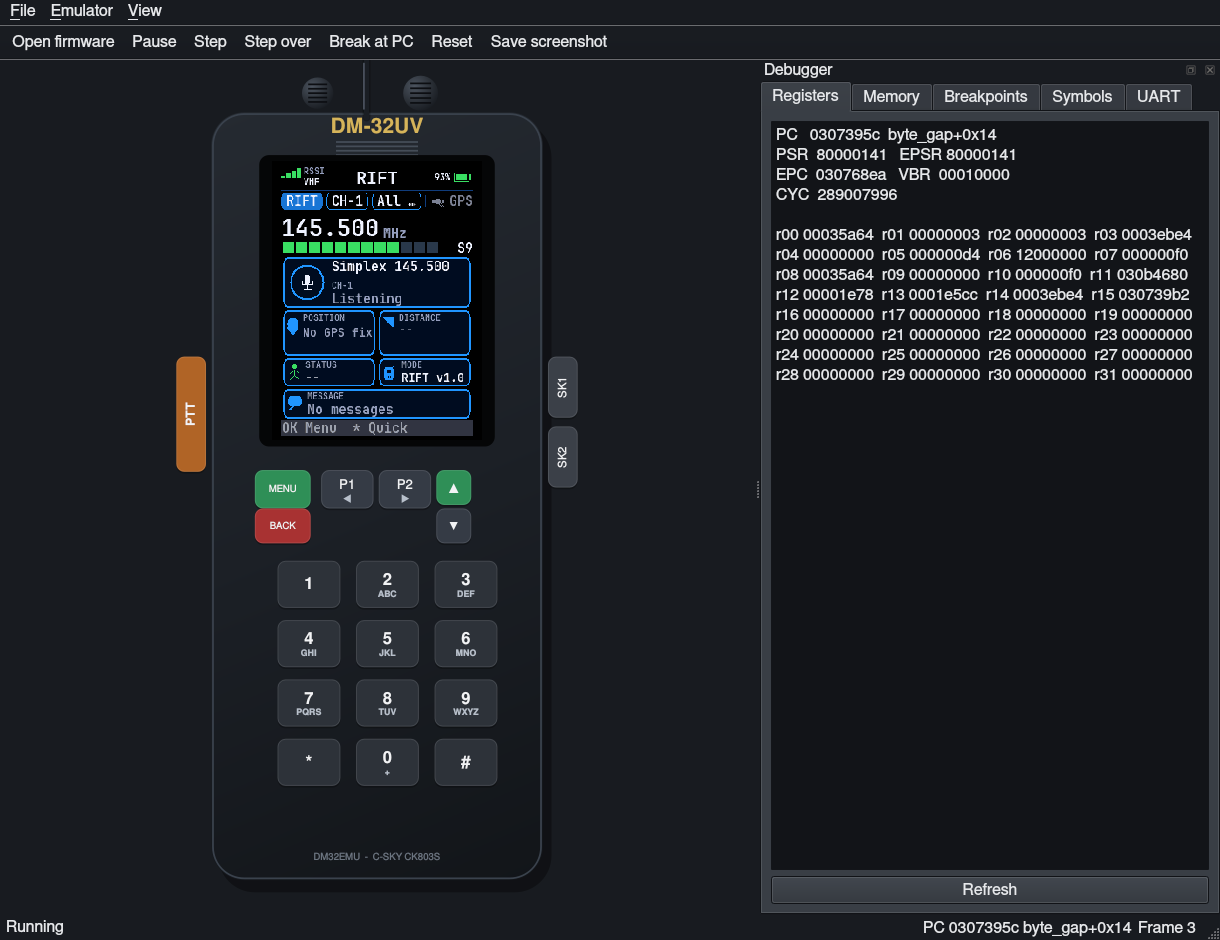
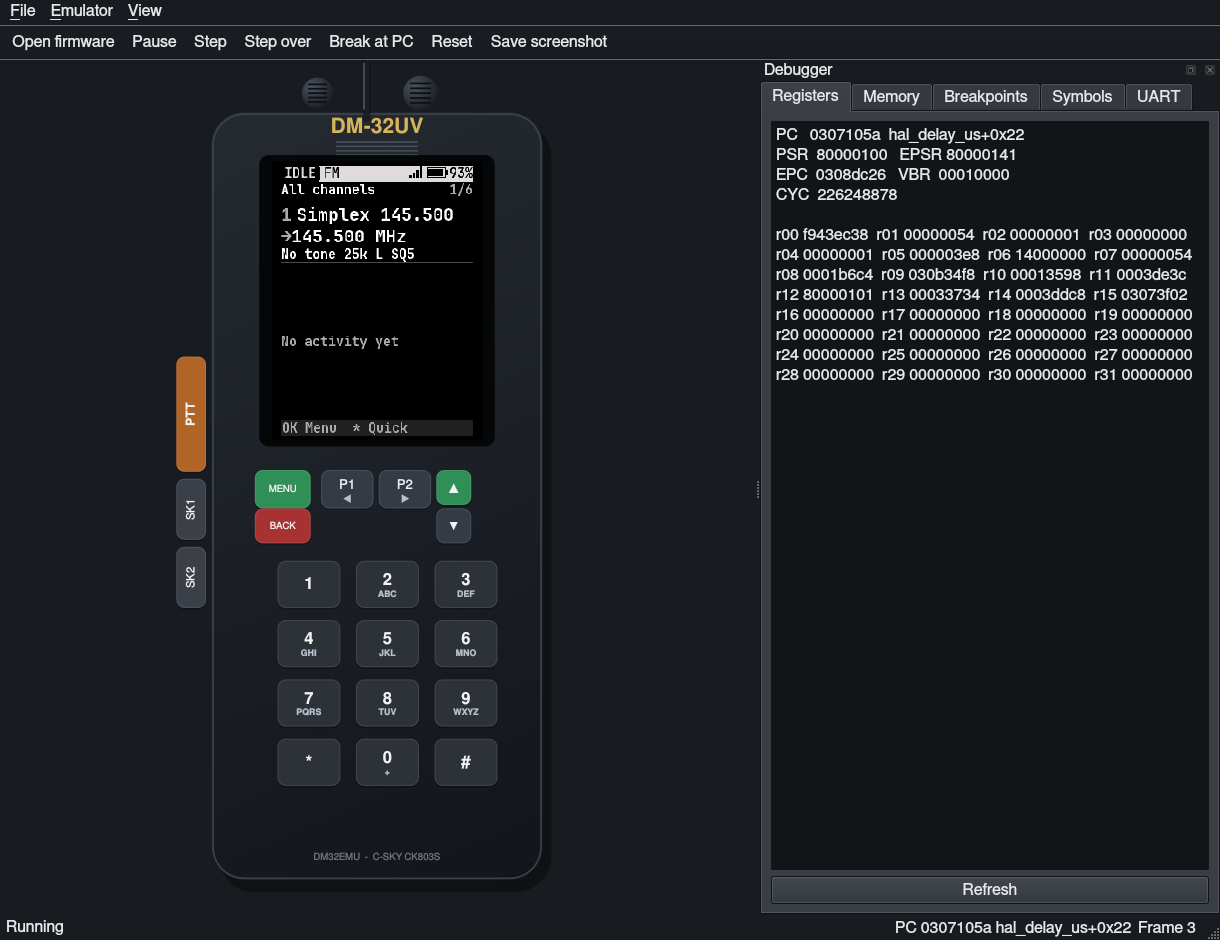
Move SK1 and SK2 under the PTT key

diff --git a/src/gui/radio_widget.cpp b/src/gui/radio_widget.cpp
@@ -78,8 +78,8 @@ void RadioWidget::rebuild()
 	key("#", "#", 2, 3, {}, 20);
 
 	buttons_.push_back({"ptt", "PTT", QRectF(30, 340, 34, 132), QColor("#b06426"), true, 14, {}, 10});
-	buttons_.push_back({"sk1", "SK1", QRectF(456, 340, 34, 70), QColor("#3b4048"), true, 13, {}, 10});
-	buttons_.push_back({"sk2", "SK2", QRectF(456, 420, 34, 70), QColor("#3b4048"), true, 13, {}, 10});
+	buttons_.push_back({"sk1", "SK1", QRectF(30, 480, 34, 70), QColor("#3b4048"), true, 13, {}, 10});
+	buttons_.push_back({"sk2", "SK2", QRectF(30, 558, 34, 70), QColor("#3b4048"), true, 13, {}, 10});
 }
 
 QSize RadioWidget::sizeHint() const { return QSize(560, 980); }
